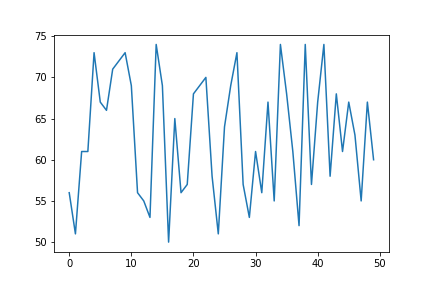
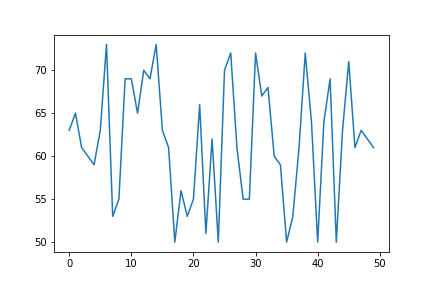
sequential file generator

diff --git a/CSV/randomCSVgen.py b/CSV/randomCSVgen.py
@@ -1,8 +1,16 @@
 import csv
+import os
+import datetime
 import numpy as np
 
+now = datetime.datetime.now()
+filename = "sample%d" %now.year+"-%d" %now.month+"-%d" %now.day+"_%d" %now.hour+"_%d" %now.minute+"_%d" %now.second+ ".csv"
+filename
+os.system('cd /home/yujustin/Desktop/playground/CSV/rngCSV/ \ntouch'+filename)
+#os.system('touch '+ filename)
+
 #generates csv file with 1000 rows and 2 columns where first column is index
-with open('sample.csv', 'w') as csvfile:
+with open(filename, 'w') as csvfile:
     spamwriter = csv.writer(csvfile, delimiter=' ', quotechar='|', quoting=csv.QUOTE_MINIMAL)
 
     for x in range(0,50):

diff --git a/CSV/matplotlib_from_csv.py b/CSV/matplotlib_from_csv.py
@@ -2,8 +2,7 @@ import matplotlib.pyplot as plt
 import numpy as np
 import pandas as pd
 
-
 data = np.genfromtxt("sample.csv" , delimiter=" ", names=["x", "y"])
 
 plt.plot(data['x'],data['y'])
-plt.savefig("sample.png")
+plt.savefig("sample"now".png")
